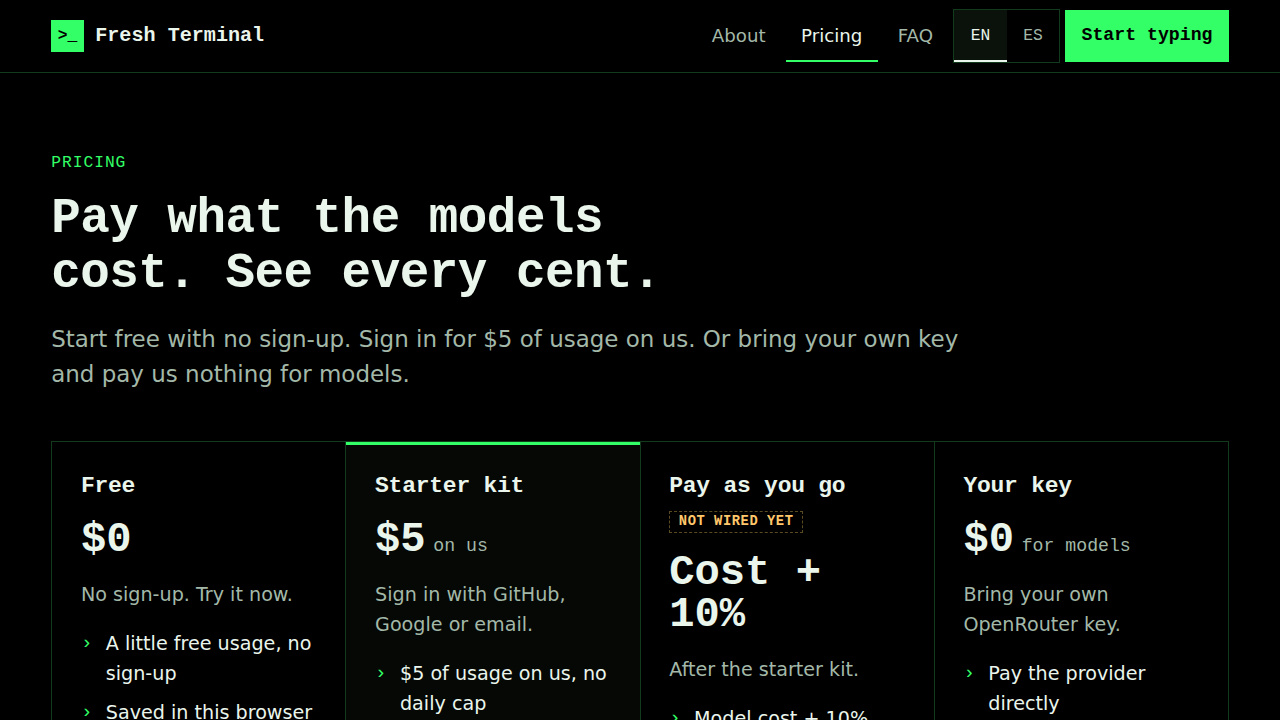
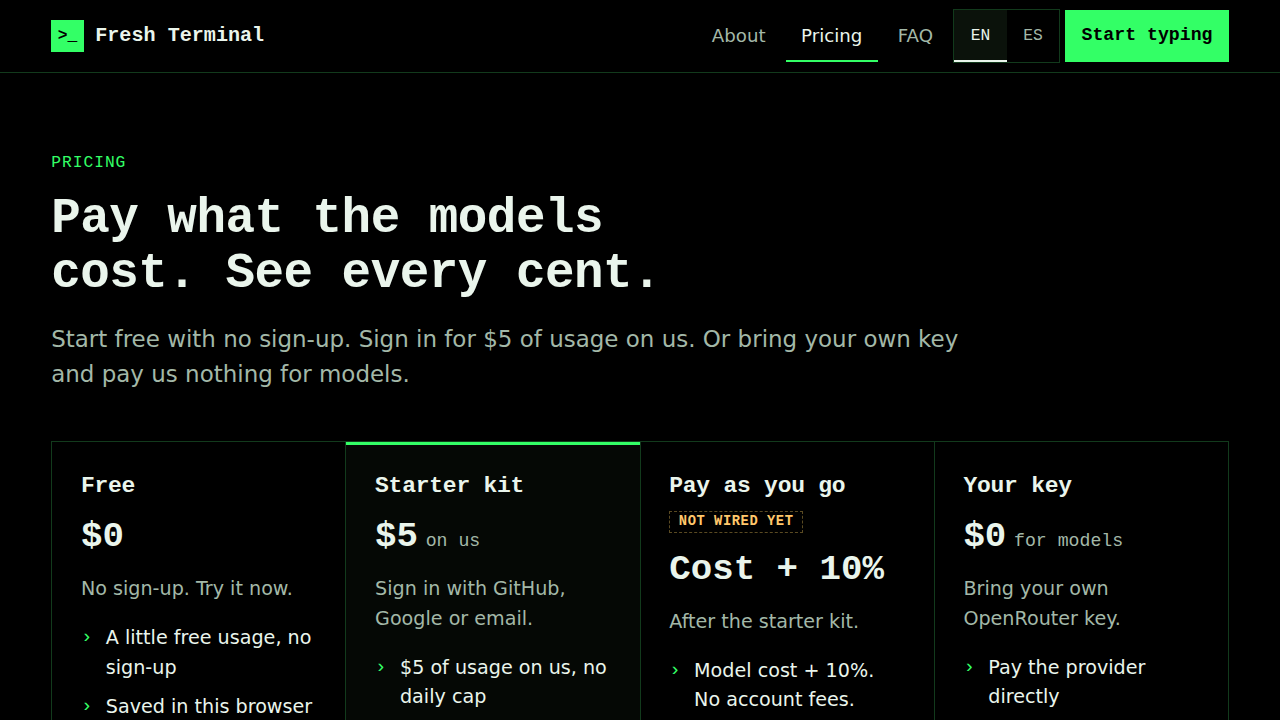
Pricing: prices stay on one line at every width (Cost + 10% wrapped at 3840); changelog 0016
Claude-Session: https://claude.ai/code/session_018fAit84S4QJuASwudzAuQz

diff --git a/terminal/app/public/sales/sales.css b/terminal/app/public/sales/sales.css
@@ -153,7 +153,7 @@ figcaption { color: var(--faint); font-size: 0.85rem; font-family: var(--mono); 
 .plan { border-right: 1px solid var(--line); border-bottom: 1px solid var(--line); padding: 1.7rem 1.5rem 1.8rem; display: flex; flex-direction: column; gap: 1rem; }
 .plan[data-highlight] { background: var(--bg-2); box-shadow: inset 0 3px 0 var(--accent); }
 .plan h3 { font-size: 1.2rem; display: flex; gap: 0.6rem; align-items: baseline; flex-wrap: wrap; }
-.price { font-family: var(--mono); font-size: clamp(2rem, 1.4rem + 1.2vw, 2.8rem); font-weight: 700; line-height: 1; }
+.price { font-family: var(--mono); font-size: clamp(1.8rem, 1rem + 1.3vw, 2.3rem); font-weight: 700; line-height: 1; white-space: nowrap; }
 .price small { font-size: 0.95rem; font-weight: 400; color: var(--muted); margin-left: 0.4rem; }
 .plan .for { color: var(--muted); }
 .plan ul { list-style: none; margin: 0; padding: 0; display: grid; gap: 0.5rem; }

diff --git a/terminal/docs/changelog/0016.md b/terminal/docs/changelog/0016.md
@@ -24,3 +24,4 @@ Recorded below after the deploy.
 - 2026-09-29 05:50 UTC, commit 41d4caf: `ci` 36527601493 success, `site-deploy` 36527601483 success, `pages` 36527601416, `router-deploy` 36527601582 success. (`hub-smoke` 36527674350 failed at "Admin grant, invite code, $5 gate", the billing pass's smoke, not these pages.)
 - curl: `/`, `/about`, `/pricing`, `/faq` answer 200 to a Slackbot user agent with og:title, og:url (per page), og:image, twitter:card `summary_large_image` and theme-color in the raw HTML; `/brand/og-1200x630.png` 200 `image/png`, 36,338 bytes; `/about/`, `/faq/` and `/pricing.html?lang=es` 301 to the clean path (query kept); no noindex. Pages: https://imagine-os.github.io/fresh-terminal/about and /pricing serve the pages.
 - Playwright on the domain at 390, 1280 and 3840: no horizontal overflow, no control under 44 px on all three pages; "Buy credits" toasts "not wired yet"; ES switches the page and carries to the next page; `/faq#privacy` opens that answer; focus outline is visible (3 px green); `?signin=1` opens the Clerk sign-in; `?open=key` opens Settings. Screenshots: scratchpad `sales/live-*.png` (not committed).
+- 2026-09-29 06:00 UTC: /pricing prices stay on one line at every width ("Cost + 10%" wrapped at 3840): `.price` is 1.8–2.3rem and does not wrap; measured one line and inside its card at 360, 390, 768, 1280, 1920, 2560 and 3840.
